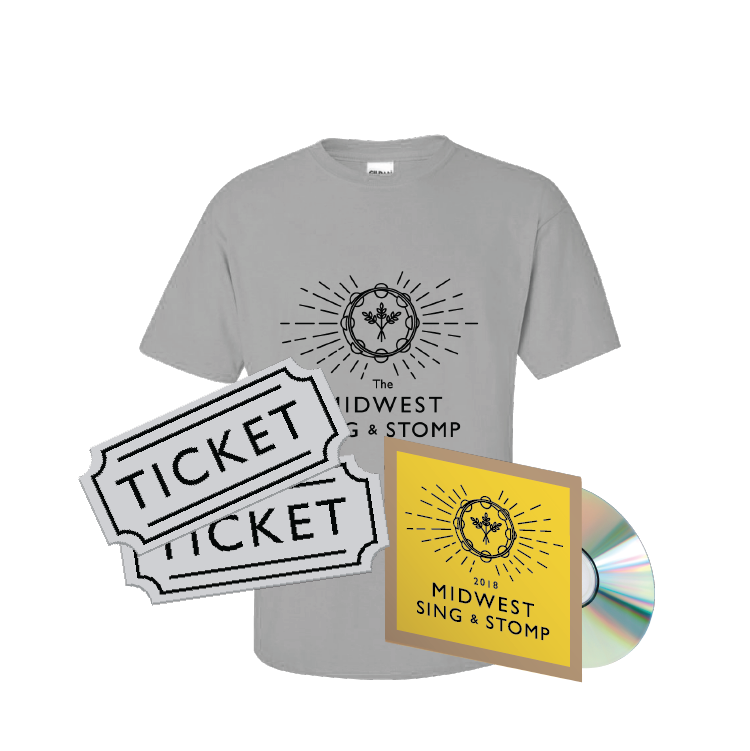
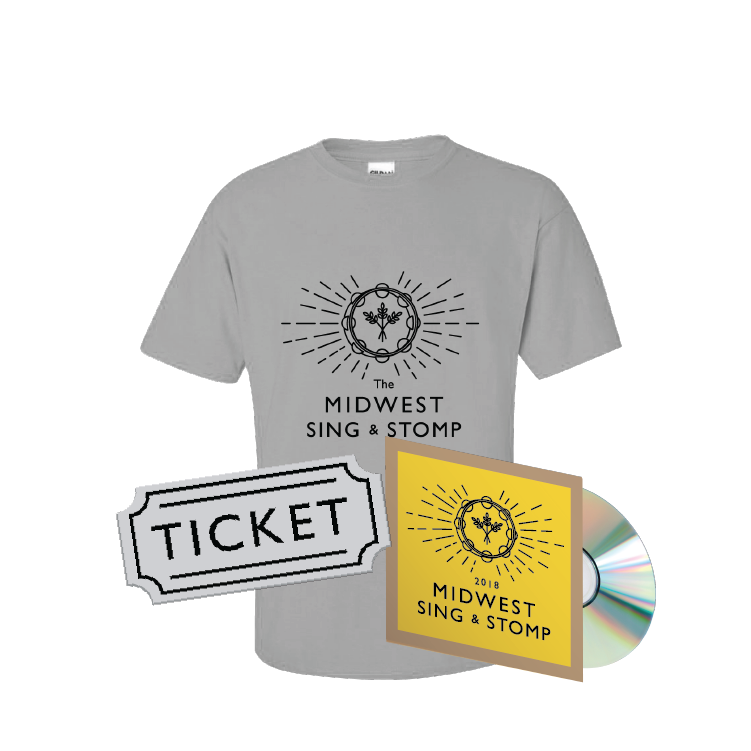
Update site

diff --git a/perk40/index.html b/perk40/index.html
@@ -1,0 +1,77 @@
+<!DOCTYPE html>
+<html>
+
+  <head>
+  <meta charset="utf-8">
+  <meta http-equiv="X-UA-Compatible" content="IE=edge">
+  <meta name="viewport" content="width=device-width, initial-scale=1">
+
+  <meta property="og:video" content="https://www.youtube.com/watch?v=dNksvLA6Ck4" />
+
+  <title>The Midwest Sing & Stomp</title>
+  <meta name="description" content="The Midwest Sing & Stomp is a celebration of folk music and dance featuring two stages with contra, square, blues, and cajun dancing and traditional Irish, Scottish, old-time American, Swedish, and other music.
+">
+
+  <link rel="stylesheet" href="/css/main.css">
+  <link rel="canonical" href="http://localhost:4000/perk40/">
+  <link rel="alternate" type="application/rss+xml" title="The Midwest Sing & Stomp" href="http://localhost:4000/feed.xml" />
+  <link href='http://fonts.googleapis.com/css?family=Lato&subset=latin,latin-ext' rel='stylesheet' type='text/css'>
+  <script
+    src="http://code.jquery.com/jquery-3.2.1.min.js"
+    integrity="sha256-hwg4gsxgFZhOsEEamdOYGBf13FyQuiTwlAQgxVSNgt4="
+    crossorigin="anonymous"></script>
+  <script src="/assets/javascripts/bootstrap.min.js"></script>
+  <script>
+    (function(i,s,o,g,r,a,m){i['GoogleAnalyticsObject']=r;i[r]=i[r]||function(){
+    (i[r].q=i[r].q||[]).push(arguments)},i[r].l=1*new Date();a=s.createElement(o),
+    m=s.getElementsByTagName(o)[0];a.async=1;a.src=g;m.parentNode.insertBefore(a,m)
+    })(window,document,'script','https://www.google-analytics.com/analytics.js','ga');
+
+    ga('create', 'UA-103788401-1', 'auto');
+    ga('send', 'pageview');
+  </script>
+</head>
+
+
+  <body>
+
+      <div class="col-xs12 col-md-6">
+        <a href="/">
+        <figure class="logo">
+          <img class="perk-logo" src="/img/logo.png" />
+        </figure>
+        </a>
+        <div class="perk-container">
+          <h1 class="text-center">Ticket, T-Shirt, and CD Package</h1>
+
+<p>
+Get a 2018 Sing &amp; Stomp Ticket, a 2018 CD, <em>and</em> a t-shirt bundled together! (Pickup only)
+</p>
+
+<div class="donate-button">
+<form action="https://www.paypal.com/cgi-bin/webscr" method="post" target="_top">
+<input type="hidden" name="cmd" value="_s-xclick">
+<input type="hidden" name="hosted_button_id" value="J7EUMK29L3DA2">
+<table>
+<tr><td><input type="hidden" name="on0" value="Delivery & Sizes">Delivery & Sizes</td></tr><tr><td><select name="os0">
+	<option value="Small">Small $40.00 USD</option>
+	<option value="Medium">Medium $40.00 USD</option>
+	<option value="Large">Large $40.00 USD</option>
+	<option value="X-Large">X-Large $40.00 USD</option>
+</select> </td></tr>
+</table>
+<input type="hidden" name="currency_code" value="USD">
+<input class="donate-image" type="image" src="http://singandstomp.com/img/donate40.png" border="0" name="submit" alt="PayPal - The safer, easier way to pay online!">
+<img alt="" border="0" src="https://www.paypalobjects.com/en_US/i/scr/pixel.gif" width="1" height="1">
+</form>
+</div>
+
+        </div>
+      </div>
+      <div class="col-xs12 col-md-6 perk-image">
+        <img src=/img/perk40full.png />
+      </div>
+
+  </body>
+
+</html>

diff --git a/perk60/index.html b/perk60/index.html
@@ -1,0 +1,68 @@
+<!DOCTYPE html>
+<html>
+
+  <head>
+  <meta charset="utf-8">
+  <meta http-equiv="X-UA-Compatible" content="IE=edge">
+  <meta name="viewport" content="width=device-width, initial-scale=1">
+
+  <meta property="og:video" content="https://www.youtube.com/watch?v=dNksvLA6Ck4" />
+
+  <title>The Midwest Sing & Stomp</title>
+  <meta name="description" content="The Midwest Sing & Stomp is a celebration of folk music and dance featuring two stages with contra, square, blues, and cajun dancing and traditional Irish, Scottish, old-time American, Swedish, and other music.
+">
+
+  <link rel="stylesheet" href="/css/main.css">
+  <link rel="canonical" href="http://localhost:4000/perk60/">
+  <link rel="alternate" type="application/rss+xml" title="The Midwest Sing & Stomp" href="http://localhost:4000/feed.xml" />
+  <link href='http://fonts.googleapis.com/css?family=Lato&subset=latin,latin-ext' rel='stylesheet' type='text/css'>
+  <script
+    src="http://code.jquery.com/jquery-3.2.1.min.js"
+    integrity="sha256-hwg4gsxgFZhOsEEamdOYGBf13FyQuiTwlAQgxVSNgt4="
+    crossorigin="anonymous"></script>
+  <script src="/assets/javascripts/bootstrap.min.js"></script>
+  <script>
+    (function(i,s,o,g,r,a,m){i['GoogleAnalyticsObject']=r;i[r]=i[r]||function(){
+    (i[r].q=i[r].q||[]).push(arguments)},i[r].l=1*new Date();a=s.createElement(o),
+    m=s.getElementsByTagName(o)[0];a.async=1;a.src=g;m.parentNode.insertBefore(a,m)
+    })(window,document,'script','https://www.google-analytics.com/analytics.js','ga');
+
+    ga('create', 'UA-103788401-1', 'auto');
+    ga('send', 'pageview');
+  </script>
+</head>
+
+
+  <body>
+
+      <div class="col-xs12 col-md-6">
+        <a href="/">
+        <figure class="logo">
+          <img class="perk-logo" src="/img/logo.png" />
+        </figure>
+        </a>
+        <div class="perk-container">
+          <h1 class="text-center">Couples Package: Two Tickets and T-Shirts, and a CD</h1>
+
+<p>
+Get two 2018 Sing &amp; Stomp Tickets, two t-shirts, <em>and</em> a 2018 CD! (Pickup only)
+</p>
+
+<div class="donate-button">
+<form action="https://www.paypal.com/cgi-bin/webscr" method="post" target="_top">
+<input type="hidden" name="cmd" value="_s-xclick">
+<input type="hidden" name="hosted_button_id" value="3M23TX7N4GV8G">
+<input type="image" src="http://singandstomp.com/img/donate1000.png" border="0" name="submit" alt="PayPal - The safer, easier way to pay online!">
+<img alt="" border="0" src="https://www.paypalobjects.com/en_US/i/scr/pixel.gif" width="1" height="1">
+</form>
+</div>
+
+        </div>
+      </div>
+      <div class="col-xs12 col-md-6 perk-image">
+        <img src=/img/perk60full.png />
+      </div>
+
+  </body>
+
+</html>

diff --git a/index.html b/index.html
@@ -223,11 +223,11 @@
 
 <div class="perk">
   <div class="graphic-container">
-    <a href=perk50>
-      <img src=img/perk50.png />
+    <a href=perk60>
+      <img src=img/perk60.png />
     </a>
   </div>
-  Two tickets, 2018 CD, and a T-Shirt
+  Couples package: Two tickets and t-shirts + a 2018 CD
 </div>
 
 <div class="perk">
